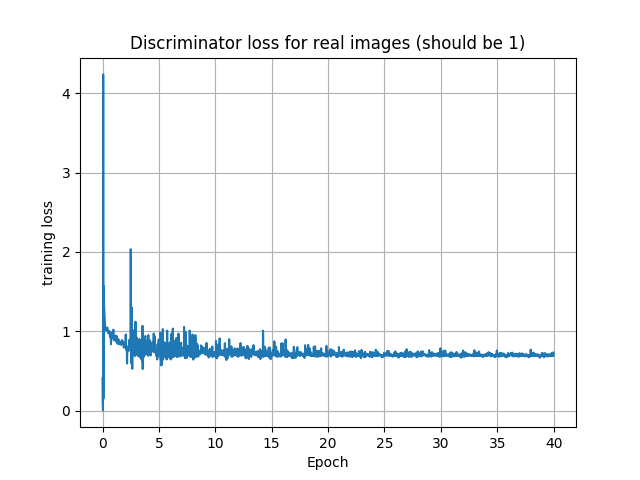
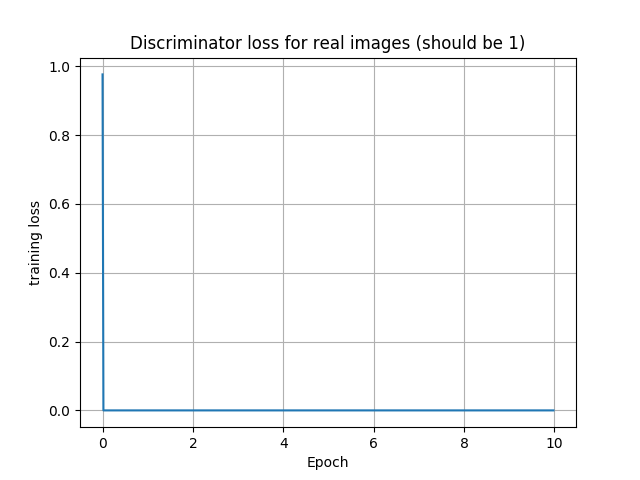
Debug

diff --git a/configuration.py b/configuration.py
@@ -8,11 +8,11 @@ class Configuration(object):
     r_alpha = 0.2
 
     # Log settings
-    experiment_name = 'tuning'
+    experiment_name = 'debug'
     #time_stamp = datetime.datetime.now().strftime("%y_%m_%d_kl%H_%M")
     
     # Test settings
-    load_epoch = 10
+    load_epoch = 6
     test_batch_size = 64
     test_batch_verbose = False
 
@@ -24,10 +24,11 @@ class Configuration(object):
         channels = 1
         batch_size = 128
         hardcoded_architecture = 'ALOCC_mnist'
-        n_epochs = 40
+        n_epochs = 10
         n_test = 5000
         n_test_in = 2500
         checkpoint_interval = 2
+        n_train = 5000
 
     if dataset == "dreyeve":
         # Autoencoder architecture

diff --git a/test.py b/test.py
@@ -41,6 +41,15 @@ for batch_idx in range(n_batches):
         pr, rc = precision_recall_curve(batch_labels, batch_scores)
         prc_auc = auc(rc, pr)
 
+    # debug: check what predicts contain
+    if batch_idx == 0:
+        imgs = batch_data[0:2]
+        predict = model.adversarial_model.predict(imgs)
+        print("predict[0]: ", predict[0].shape)
+        print("predict[1]: ", predict[1].shape, predict[1])
+
+# All scores computed, evaluate and document
+
 # get final predics
 scores = np.append(scores, model.adversarial_model.predict(data[n_batches*batch_size:])[1])
 
